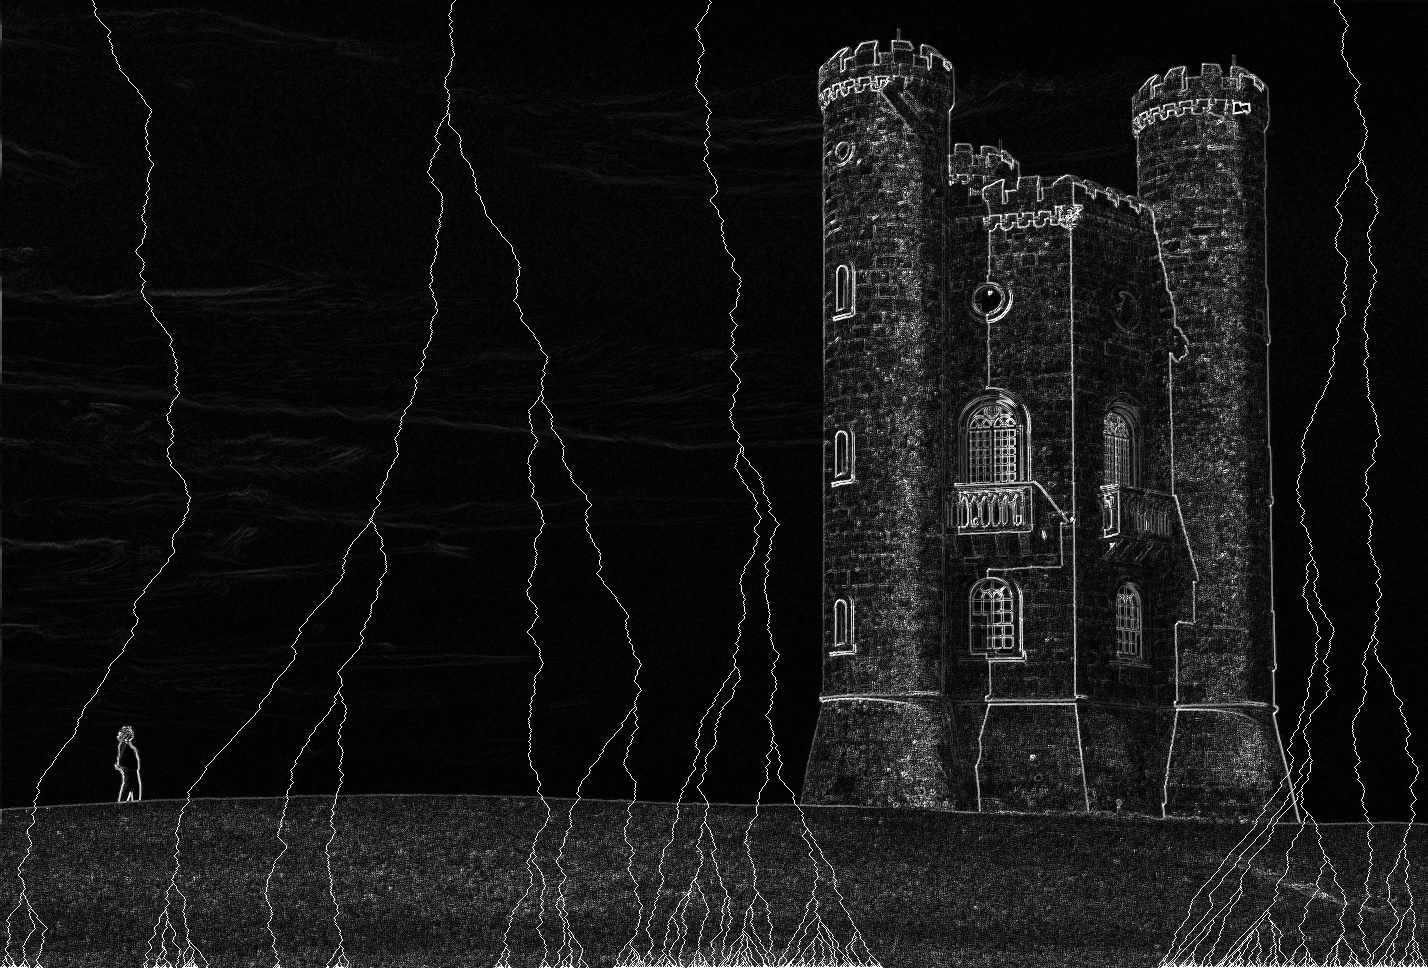
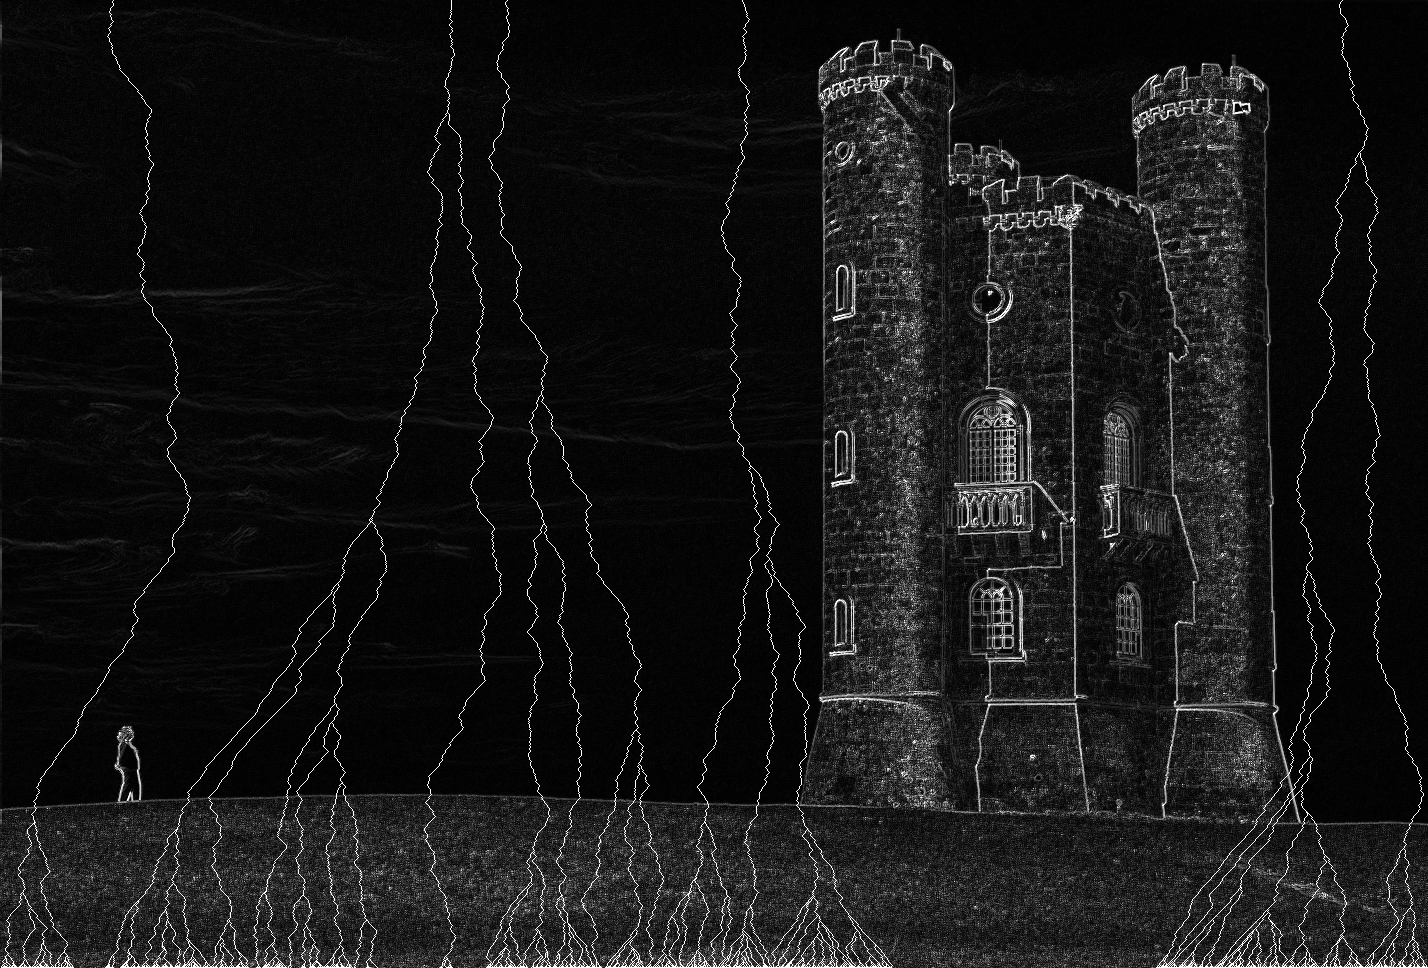
Attempting to fix seam convergance

Changed region(s): [[0.0308, 0.9917, 0.2465, 1.0], [0.3389, 0.9917, 0.4314, 1.0]]

diff --git a/src/libSeamCarve.c b/src/libSeamCarve.c
@@ -49,7 +49,8 @@ static inline int min3(int a, int b, int c)
 	}
 }
 
-static int energyE(int *imageVector, int imageWidth, int imageHeight, int currentPixel)
+// Simple energy function, basically a gradient magnitude calculation
+static int energySimple(int *imageVector, int imageWidth, int imageHeight, int currentPixel)
 {
 	// We can pull from two pixels above instead of summing one above and one below
 	int pixelAbove = 0;
@@ -80,7 +81,12 @@ static int energyE(int *imageVector, int imageWidth, int imageHeight, int curren
 
 	// int fin = (yDif + xDif);
 	// printf("%d ", fin);
-	return min((yDif + xDif), 255);
+	//return imageVector[currentPixel];
+	if ((yDif + xDif) > 0) {
+		return min((yDif + xDif), 255);
+	} else {
+		return 1;
+	}
 }
 
 static int *seamCarve(int *imageVector, int imageWidth, int imageHeight)
@@ -90,12 +96,14 @@ static int *seamCarve(int *imageVector, int imageWidth, int imageHeight)
 	int *newImageTraces = (int*)malloc((unsigned long)imageHeight * (unsigned long)imageWidth * sizeof(int));
 	int *newImageSeams = (int*)malloc((unsigned long)imageHeight * (unsigned long)imageWidth * sizeof(int));
 
+	// create an image of the original image's energies
 	for (int j = 0; j < imageHeight; ++j) {
 		for (int i = 0; i < imageWidth; ++i) {
 			currentPixel = (j * imageWidth) + i;
 			// printf("%d\n", currentPixel);
 			// newImageEnergy[currentPixel] = imageVector[currentPixel];
-			newImageEnergy[currentPixel] = energyE(imageVector, imageWidth, imageHeight, currentPixel);
+			newImageEnergy[currentPixel] = energySimple(imageVector, imageWidth, imageHeight, currentPixel);
+			newImageTraces[currentPixel] = TRACE_NONE;
 			newImageSeams[currentPixel] = newImageEnergy[currentPixel];
 		}
 	}
@@ -106,49 +114,51 @@ static int *seamCarve(int *imageVector, int imageWidth, int imageHeight)
 	int aboveR = 0;
 	int newValue = 0;
 
-	for (int j = 0; j < imageHeight; ++j) {
+	// do not process the first row, start with j=1
+	for (int j = 1; j < imageHeight; ++j) {
 		for (int i = 0; i < imageWidth; ++i) {
 			currentPixel = (j * imageWidth) + i;
 
-			// do not process the first row
-			if (j > 0) {
-				pixelAbove = currentPixel - imageWidth;
-				// avoid falling of the ends
-				if (i > 0) {
-					if (i < imageWidth) {
-						aboveL = newImageSeams[pixelAbove - 1];
-						aboveC = newImageSeams[pixelAbove];
-						aboveR = newImageSeams[pixelAbove + 1];
-						newValue = min3(aboveL, aboveC, aboveR);
-					} else {
-						aboveL = newImageSeams[pixelAbove - 1];
-						aboveC = newImageSeams[pixelAbove];
-						aboveR = INT_MAX;
-						newValue = min(aboveL, aboveC);
-					}
-				} else {
-					aboveL = INT_MAX;
+			pixelAbove = currentPixel - imageWidth;
+			// avoid falling of the ends
+			if (i > 0) {
+				if (i < imageWidth) {
+					aboveL = newImageSeams[pixelAbove - 1];
 					aboveC = newImageSeams[pixelAbove];
 					aboveR = newImageSeams[pixelAbove + 1];
-					newValue = min(aboveC, aboveR);
-				}
-
-				// add the minimum above adjacent pixel to the current
-				//printf("%d %d \n", newImageSeams[currentPixel], newValue);
-				newImageSeams[currentPixel] += newValue;
-				//newImageSeams[currentPixel] = min(newImageSeams[currentPixel], 255);
-				
-				//newImageEnergy[currentPixel] = min(newImageEnergy[currentPixel], 255);
-				//printf("%3d ", newValue);
-
-				// record the track we have followed
-				if (newValue == aboveL) {
-					newImageTraces[currentPixel] = TRACE_LEFT;
-				} else if (newValue == aboveC) {
-					newImageTraces[currentPixel] = TRACE_CENTER;
+					newValue = min3(aboveL, aboveC, aboveR);
 				} else {
-					newImageTraces[currentPixel] = TRACE_RIGHT;
+					aboveL = newImageSeams[pixelAbove - 1];
+					aboveC = newImageSeams[pixelAbove];
+					aboveR = INT_MAX;
+					newValue = min(aboveL, aboveC);
 				}
+			} else {
+				aboveL = INT_MAX;
+				aboveC = newImageSeams[pixelAbove];
+				aboveR = newImageSeams[pixelAbove + 1];
+				newValue = min(aboveC, aboveR);
+			}
+
+			if ((j<20) && (i<120)) {
+				printf("j: %d, i: %d == %d<%d>%d => %d + %d\n", j, i, aboveL, aboveC, aboveR, newImageSeams[currentPixel], newValue);
+			}
+			// add the minimum above adjacent pixel to the current
+			//printf("%d %d \n", newImageSeams[currentPixel], newValue);
+			//newImageSeams[currentPixel] -= 1;
+			newImageSeams[currentPixel] += newValue;
+			//newImageSeams[currentPixel] = min(newImageSeams[currentPixel], 255);
+			
+			//newImageEnergy[currentPixel] = min(newImageEnergy[currentPixel], 255);
+			//printf("%3d ", newValue);
+
+			// record the track we have followed
+			if (newValue == aboveC) {
+				newImageTraces[currentPixel] = TRACE_CENTER;
+			} else if (newValue == aboveL) {
+				newImageTraces[currentPixel] = TRACE_LEFT;
+			} else {
+				newImageTraces[currentPixel] = TRACE_RIGHT;
 			}
 		}
 	}
@@ -156,10 +166,9 @@ static int *seamCarve(int *imageVector, int imageWidth, int imageHeight)
 	// TODO: find the minimum values along the bottom
 	int minValueLocation = 0;
 	int minValue = INT_MAX;
-
-	for (int i = (imageWidth * imageHeight); i > ((imageWidth * imageHeight) - imageWidth); --i) {
+	for (int i = ((imageWidth * imageHeight) - 1); i > ((imageWidth * imageHeight) - imageWidth); --i) {
 		// if (newImageEnergy[i] <= minValue) {
-		if (newImageSeams[i] <= 5000) {
+		if (newImageSeams[i] <= 5200) {
 			minValueLocation = i;
 			minValue = newImageSeams[minValueLocation];
 			//printf("%d %d \n", minValue, minValueLocation);
